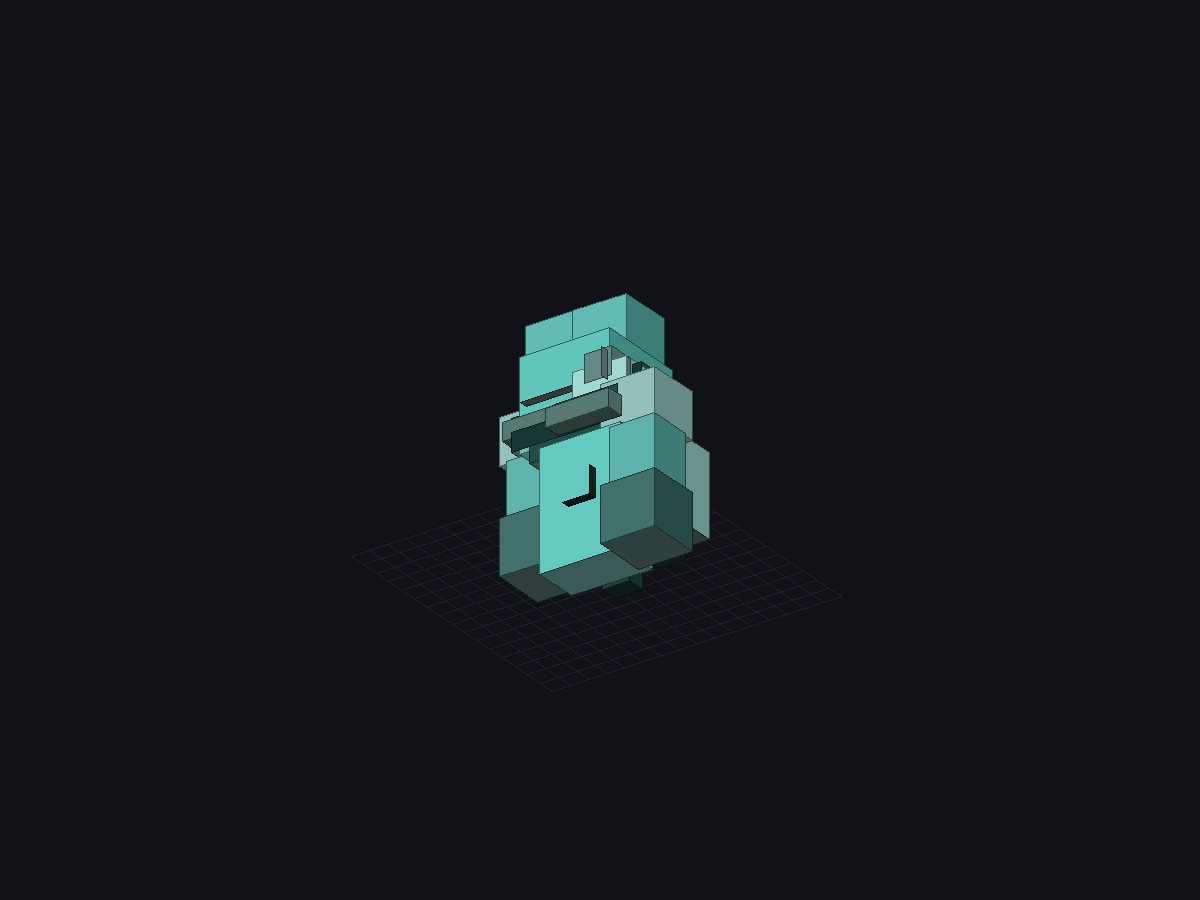
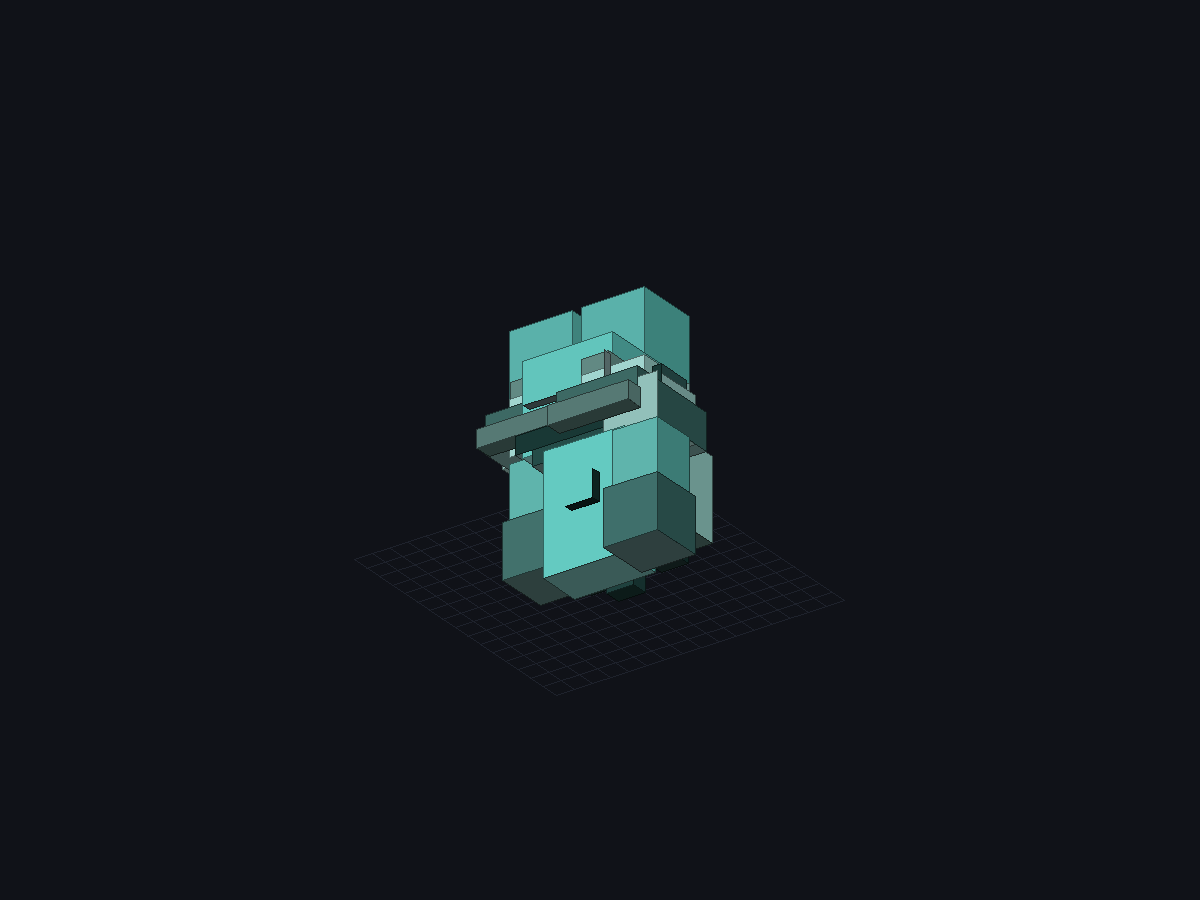
Legs v2: truly huge wide-stance servo legs (7x8x7 thighs, 9x4x11 boots) + reliable close-up framing in CI

Changed region(s): [[0.4008, 0.3111, 0.6167, 0.6844]]

diff --git a/src/main/java/com/octoarms/client/model/ArmorSpecs.java b/src/main/java/com/octoarms/client/model/ArmorSpecs.java
@@ -69,24 +69,24 @@ public final class ArmorSpecs {
             new Box("left_arm", 48, 22, 6F, 5F, 6F, -2.4F, -2.8F, -3.0F),
             new Box("left_arm", 74, 22, 5F, 7F, 5F, -1.8F, 1.6F, -2.5F),
             new Box("left_arm", 96, 22, 6F, 6F, 6F, -2.4F, 7.6F, -3.0F),
-            new Box("right_leg", 122, 22, 6F, 7F, 6F, -3.7F, -1.2F, -3.2F),
-            new Box("left_leg", 148, 22, 6F, 7F, 6F, -2.3F, -1.2F, -3.2F),
-            new Box("right_leg", 174, 22, 3F, 3F, 3F, -3.0F, 4.6F, -4.6F),
-            new Box("left_leg", 188, 22, 3F, 3F, 3F, 0.0F, 4.6F, -4.6F),
-            new Box("right_leg", 202, 22, 6F, 7F, 6F, -3.7F, 5.2F, -3.2F),
-            new Box("left_leg", 228, 22, 6F, 7F, 6F, -2.3F, 5.2F, -3.2F),
-            new Box("right_leg", 0, 37, 1F, 5F, 4F, -4.5F, 5.6F, -2.0F),
-            new Box("left_leg", 12, 37, 1F, 5F, 4F, 3.5F, 5.6F, -2.0F),
-            new Box("right_leg", 24, 37, 7F, 3F, 9F, -4.0F, 9.0F, -5.0F),
-            new Box("left_leg", 58, 37, 7F, 3F, 9F, -3.0F, 9.0F, -5.0F),
-            new Box("right_leg", 92, 37, 7F, 2F, 2F, -4.0F, 10.0F, -6.4F),
-            new Box("left_leg", 112, 37, 7F, 2F, 2F, -3.0F, 10.0F, -6.4F),
-            new Box("right_leg", 132, 37, 2F, 2F, 2F, -3.4F, 10.0F, 3.6F),
-            new Box("left_leg", 142, 37, 2F, 2F, 2F, -0.5F, 10.0F, 3.6F),
-            new Box("head", 152, 37, 1F, 4F, 1F, -6.4F, -12.0F, 1.0F),
-            new Box("head", 158, 37, 1F, 1F, 1F, -6.4F, -12.6F, 1.0F),
-            new Box("body", 164, 37, 2F, 2F, 3F, -5.6F, 3.0F, -3.6F),
-            new Box("body", 176, 37, 2F, 2F, 3F, 3.6F, 3.0F, -3.6F)
+            new Box("right_leg", 122, 22, 7F, 8F, 7F, -5.6F, -1.5F, -3.5F),
+            new Box("left_leg", 152, 22, 7F, 8F, 7F, -1.4F, -1.5F, -3.5F),
+            new Box("right_leg", 182, 22, 3F, 3F, 3F, -4.5F, 4.8F, -5.0F),
+            new Box("left_leg", 196, 22, 3F, 3F, 3F, -0.4F, 4.8F, -5.0F),
+            new Box("right_leg", 210, 22, 7F, 6F, 7F, -5.6F, 5.5F, -3.5F),
+            new Box("left_leg", 0, 39, 7F, 6F, 7F, -1.4F, 5.5F, -3.5F),
+            new Box("right_leg", 30, 39, 1F, 4F, 4F, -6.4F, 6.0F, -2.0F),
+            new Box("left_leg", 42, 39, 1F, 4F, 4F, 5.4F, 6.0F, -2.0F),
+            new Box("right_leg", 54, 39, 9F, 4F, 11F, -6.5F, 8.0F, -6.0F),
+            new Box("left_leg", 96, 39, 9F, 4F, 11F, -2.5F, 8.0F, -6.0F),
+            new Box("right_leg", 138, 39, 9F, 2F, 2F, -6.5F, 10.0F, -7.4F),
+            new Box("left_leg", 162, 39, 9F, 2F, 2F, -2.5F, 10.0F, -7.4F),
+            new Box("right_leg", 186, 39, 2F, 2F, 2F, -5.0F, 10.0F, 4.6F),
+            new Box("left_leg", 196, 39, 2F, 2F, 2F, 3.0F, 10.0F, 4.6F),
+            new Box("head", 206, 39, 1F, 4F, 1F, -6.4F, -12.0F, 1.0F),
+            new Box("head", 212, 39, 1F, 1F, 1F, -6.4F, -12.6F, 1.0F),
+            new Box("body", 218, 39, 2F, 2F, 3F, -5.6F, 3.0F, -3.6F),
+            new Box("body", 230, 39, 2F, 2F, 3F, 3.6F, 3.0F, -3.6F)
         });
         SUITS.put("iron_mech", new Box[]{
             new Box("hat", 0, 0, 0F, 0F, 0F, 0.0F, 0.0F, 0.0F),
@@ -104,25 +104,25 @@ public final class ArmorSpecs {
             new Box("left_arm", 48, 22, 6F, 5F, 6F, -2.4F, -2.8F, -3.0F),
             new Box("left_arm", 74, 22, 5F, 7F, 5F, -1.8F, 1.6F, -2.5F),
             new Box("left_arm", 96, 22, 6F, 6F, 6F, -2.4F, 7.6F, -3.0F),
-            new Box("right_leg", 122, 22, 6F, 7F, 6F, -3.7F, -1.2F, -3.2F),
-            new Box("left_leg", 148, 22, 6F, 7F, 6F, -2.3F, -1.2F, -3.2F),
-            new Box("right_leg", 174, 22, 3F, 3F, 3F, -3.0F, 4.6F, -4.6F),
-            new Box("left_leg", 188, 22, 3F, 3F, 3F, 0.0F, 4.6F, -4.6F),
-            new Box("right_leg", 202, 22, 6F, 7F, 6F, -3.7F, 5.2F, -3.2F),
-            new Box("left_leg", 228, 22, 6F, 7F, 6F, -2.3F, 5.2F, -3.2F),
-            new Box("right_leg", 0, 37, 1F, 5F, 4F, -4.5F, 5.6F, -2.0F),
-            new Box("left_leg", 12, 37, 1F, 5F, 4F, 3.5F, 5.6F, -2.0F),
-            new Box("right_leg", 24, 37, 7F, 3F, 9F, -4.0F, 9.0F, -5.0F),
-            new Box("left_leg", 58, 37, 7F, 3F, 9F, -3.0F, 9.0F, -5.0F),
-            new Box("right_leg", 92, 37, 7F, 2F, 2F, -4.0F, 10.0F, -6.4F),
-            new Box("left_leg", 112, 37, 7F, 2F, 2F, -3.0F, 10.0F, -6.4F),
-            new Box("right_leg", 132, 37, 2F, 2F, 2F, -3.4F, 10.0F, 3.6F),
-            new Box("left_leg", 142, 37, 2F, 2F, 2F, -0.5F, 10.0F, 3.6F),
-            new Box("right_arm", 152, 37, 7F, 3F, 7F, -4.2F, -3.4F, -3.5F),
-            new Box("left_arm", 182, 37, 7F, 3F, 7F, -2.8F, -3.4F, -3.5F),
-            new Box("body", 212, 37, 9F, 2F, 2F, -4.5F, 6.4F, -3.4F),
-            new Box("body", 236, 37, 4F, 6F, 3F, -6.6F, 1.0F, 2.8F),
-            new Box("body", 0, 51, 4F, 6F, 3F, 2.6F, 1.0F, 2.8F)
+            new Box("right_leg", 122, 22, 7F, 8F, 7F, -5.6F, -1.5F, -3.5F),
+            new Box("left_leg", 152, 22, 7F, 8F, 7F, -1.4F, -1.5F, -3.5F),
+            new Box("right_leg", 182, 22, 3F, 3F, 3F, -4.5F, 4.8F, -5.0F),
+            new Box("left_leg", 196, 22, 3F, 3F, 3F, -0.4F, 4.8F, -5.0F),
+            new Box("right_leg", 210, 22, 7F, 6F, 7F, -5.6F, 5.5F, -3.5F),
+            new Box("left_leg", 0, 39, 7F, 6F, 7F, -1.4F, 5.5F, -3.5F),
+            new Box("right_leg", 30, 39, 1F, 4F, 4F, -6.4F, 6.0F, -2.0F),
+            new Box("left_leg", 42, 39, 1F, 4F, 4F, 5.4F, 6.0F, -2.0F),
+            new Box("right_leg", 54, 39, 9F, 4F, 11F, -6.5F, 8.0F, -6.0F),
+            new Box("left_leg", 96, 39, 9F, 4F, 11F, -2.5F, 8.0F, -6.0F),
+            new Box("right_leg", 138, 39, 9F, 2F, 2F, -6.5F, 10.0F, -7.4F),
+            new Box("left_leg", 162, 39, 9F, 2F, 2F, -2.5F, 10.0F, -7.4F),
+            new Box("right_leg", 186, 39, 2F, 2F, 2F, -5.0F, 10.0F, 4.6F),
+            new Box("left_leg", 196, 39, 2F, 2F, 2F, 3.0F, 10.0F, 4.6F),
+            new Box("right_arm", 206, 39, 7F, 3F, 7F, -4.2F, -3.4F, -3.5F),
+            new Box("left_arm", 0, 56, 7F, 3F, 7F, -2.8F, -3.4F, -3.5F),
+            new Box("body", 30, 56, 9F, 2F, 2F, -4.5F, 6.4F, -3.4F),
+            new Box("body", 54, 56, 4F, 6F, 3F, -6.6F, 1.0F, 2.8F),
+            new Box("body", 70, 56, 4F, 6F, 3F, 2.6F, 1.0F, 2.8F)
         });
         SUITS.put("gold_mech", new Box[]{
             new Box("hat", 0, 0, 0F, 0F, 0F, 0.0F, 0.0F, 0.0F),
@@ -140,25 +140,25 @@ public final class ArmorSpecs {
             new Box("left_arm", 48, 22, 6F, 5F, 6F, -2.4F, -2.8F, -3.0F),
             new Box("left_arm", 74, 22, 5F, 7F, 5F, -1.8F, 1.6F, -2.5F),
             new Box("left_arm", 96, 22, 6F, 6F, 6F, -2.4F, 7.6F, -3.0F),
-            new Box("right_leg", 122, 22, 6F, 7F, 6F, -3.7F, -1.2F, -3.2F),
-            new Box("left_leg", 148, 22, 6F, 7F, 6F, -2.3F, -1.2F, -3.2F),
-            new Box("right_leg", 174, 22, 3F, 3F, 3F, -3.0F, 4.6F, -4.6F),
-            new Box("left_leg", 188, 22, 3F, 3F, 3F, 0.0F, 4.6F, -4.6F),
-            new Box("right_leg", 202, 22, 6F, 7F, 6F, -3.7F, 5.2F, -3.2F),
-            new Box("left_leg", 228, 22, 6F, 7F, 6F, -2.3F, 5.2F, -3.2F),
-            new Box("right_leg", 0, 37, 1F, 5F, 4F, -4.5F, 5.6F, -2.0F),
-            new Box("left_leg", 12, 37, 1F, 5F, 4F, 3.5F, 5.6F, -2.0F),
-            new Box("right_leg", 24, 37, 7F, 3F, 9F, -4.0F, 9.0F, -5.0F),
-            new Box("left_leg", 58, 37, 7F, 3F, 9F, -3.0F, 9.0F, -5.0F),
-            new Box("right_leg", 92, 37, 7F, 2F, 2F, -4.0F, 10.0F, -6.4F),
-            new Box("left_leg", 112, 37, 7F, 2F, 2F, -3.0F, 10.0F, -6.4F),
-            new Box("right_leg", 132, 37, 2F, 2F, 2F, -3.4F, 10.0F, 3.6F),
-            new Box("left_leg", 142, 37, 2F, 2F, 2F, -0.5F, 10.0F, 3.6F),
-            new Box("head", 152, 37, 2F, 4F, 8F, -1.0F, -12.4F, -3.0F),
-            new Box("head", 174, 37, 2F, 1F, 8F, -1.0F, -13.0F, -3.0F),
-            new Box("body", 196, 37, 11F, 4F, 6F, -5.5F, 9.0F, -3.0F),
-            new Box("right_arm", 232, 37, 2F, 6F, 2F, -4.4F, 2.0F, -3.4F),
-            new Box("left_arm", 242, 37, 2F, 6F, 2F, 2.4F, 2.0F, -3.4F)
+            new Box("right_leg", 122, 22, 7F, 8F, 7F, -5.6F, -1.5F, -3.5F),
+            new Box("left_leg", 152, 22, 7F, 8F, 7F, -1.4F, -1.5F, -3.5F),
+            new Box("right_leg", 182, 22, 3F, 3F, 3F, -4.5F, 4.8F, -5.0F),
+            new Box("left_leg", 196, 22, 3F, 3F, 3F, -0.4F, 4.8F, -5.0F),
+            new Box("right_leg", 210, 22, 7F, 6F, 7F, -5.6F, 5.5F, -3.5F),
+            new Box("left_leg", 0, 39, 7F, 6F, 7F, -1.4F, 5.5F, -3.5F),
+            new Box("right_leg", 30, 39, 1F, 4F, 4F, -6.4F, 6.0F, -2.0F),
+            new Box("left_leg", 42, 39, 1F, 4F, 4F, 5.4F, 6.0F, -2.0F),
+            new Box("right_leg", 54, 39, 9F, 4F, 11F, -6.5F, 8.0F, -6.0F),
+            new Box("left_leg", 96, 39, 9F, 4F, 11F, -2.5F, 8.0F, -6.0F),
+            new Box("right_leg", 138, 39, 9F, 2F, 2F, -6.5F, 10.0F, -7.4F),
+            new Box("left_leg", 162, 39, 9F, 2F, 2F, -2.5F, 10.0F, -7.4F),
+            new Box("right_leg", 186, 39, 2F, 2F, 2F, -5.0F, 10.0F, 4.6F),
+            new Box("left_leg", 196, 39, 2F, 2F, 2F, 3.0F, 10.0F, 4.6F),
+            new Box("head", 206, 39, 2F, 4F, 8F, -1.0F, -12.4F, -3.0F),
+            new Box("head", 228, 39, 2F, 1F, 8F, -1.0F, -13.0F, -3.0F),
+            new Box("body", 0, 56, 11F, 4F, 6F, -5.5F, 9.0F, -3.0F),
+            new Box("right_arm", 36, 56, 2F, 6F, 2F, -4.4F, 2.0F, -3.4F),
+            new Box("left_arm", 46, 56, 2F, 6F, 2F, 2.4F, 2.0F, -3.4F)
         });
         SUITS.put("diamond_mech", new Box[]{
             new Box("hat", 0, 0, 0F, 0F, 0F, 0.0F, 0.0F, 0.0F),
@@ -176,25 +176,25 @@ public final class ArmorSpecs {
             new Box("left_arm", 48, 22, 6F, 5F, 6F, -2.4F, -2.8F, -3.0F),
             new Box("left_arm", 74, 22, 5F, 7F, 5F, -1.8F, 1.6F, -2.5F),
             new Box("left_arm", 96, 22, 6F, 6F, 6F, -2.4F, 7.6F, -3.0F),
-            new Box("right_leg", 122, 22, 6F, 7F, 6F, -3.7F, -1.2F, -3.2F),
-            new Box("left_leg", 148, 22, 6F, 7F, 6F, -2.3F, -1.2F, -3.2F),
-            new Box("right_leg", 174, 22, 3F, 3F, 3F, -3.0F, 4.6F, -4.6F),
-            new Box("left_leg", 188, 22, 3F, 3F, 3F, 0.0F, 4.6F, -4.6F),
-            new Box("right_leg", 202, 22, 6F, 7F, 6F, -3.7F, 5.2F, -3.2F),
-            new Box("left_leg", 228, 22, 6F, 7F, 6F, -2.3F, 5.2F, -3.2F),
-            new Box("right_leg", 0, 37, 1F, 5F, 4F, -4.5F, 5.6F, -2.0F),
-            new Box("left_leg", 12, 37, 1F, 5F, 4F, 3.5F, 5.6F, -2.0F),
-            new Box("right_leg", 24, 37, 7F, 3F, 9F, -4.0F, 9.0F, -5.0F),
-            new Box("left_leg", 58, 37, 7F, 3F, 9F, -3.0F, 9.0F, -5.0F),
-            new Box("right_leg", 92, 37, 7F, 2F, 2F, -4.0F, 10.0F, -6.4F),
-            new Box("left_leg", 112, 37, 7F, 2F, 2F, -3.0F, 10.0F, -6.4F),
-            new Box("right_leg", 132, 37, 2F, 2F, 2F, -3.4F, 10.0F, 3.6F),
-            new Box("left_leg", 142, 37, 2F, 2F, 2F, -0.5F, 10.0F, 3.6F),
-            new Box("body", 152, 37, 2F, 9F, 5F, -7.2F, -1.0F, 2.6F),
-            new Box("body", 168, 37, 2F, 9F, 5F, 5.2F, -1.0F, 2.6F),
-            new Box("body", 184, 37, 3F, 3F, 3F, -5.4F, 7.0F, 3.4F),
-            new Box("body", 198, 37, 3F, 3F, 3F, 2.4F, 7.0F, 3.4F),
-            new Box("head", 212, 37, 10F, 1F, 2F, -5.0F, -9.6F, -1.0F)
+            new Box("right_leg", 122, 22, 7F, 8F, 7F, -5.6F, -1.5F, -3.5F),
+            new Box("left_leg", 152, 22, 7F, 8F, 7F, -1.4F, -1.5F, -3.5F),
+            new Box("right_leg", 182, 22, 3F, 3F, 3F, -4.5F, 4.8F, -5.0F),
+            new Box("left_leg", 196, 22, 3F, 3F, 3F, -0.4F, 4.8F, -5.0F),
+            new Box("right_leg", 210, 22, 7F, 6F, 7F, -5.6F, 5.5F, -3.5F),
+            new Box("left_leg", 0, 39, 7F, 6F, 7F, -1.4F, 5.5F, -3.5F),
+            new Box("right_leg", 30, 39, 1F, 4F, 4F, -6.4F, 6.0F, -2.0F),
+            new Box("left_leg", 42, 39, 1F, 4F, 4F, 5.4F, 6.0F, -2.0F),
+            new Box("right_leg", 54, 39, 9F, 4F, 11F, -6.5F, 8.0F, -6.0F),
+            new Box("left_leg", 96, 39, 9F, 4F, 11F, -2.5F, 8.0F, -6.0F),
+            new Box("right_leg", 138, 39, 9F, 2F, 2F, -6.5F, 10.0F, -7.4F),
+            new Box("left_leg", 162, 39, 9F, 2F, 2F, -2.5F, 10.0F, -7.4F),
+            new Box("right_leg", 186, 39, 2F, 2F, 2F, -5.0F, 10.0F, 4.6F),
+            new Box("left_leg", 196, 39, 2F, 2F, 2F, 3.0F, 10.0F, 4.6F),
+            new Box("body", 206, 39, 2F, 9F, 5F, -7.2F, -1.0F, 2.6F),
+            new Box("body", 222, 39, 2F, 9F, 5F, 5.2F, -1.0F, 2.6F),
+            new Box("body", 238, 39, 3F, 3F, 3F, -5.4F, 7.0F, 3.4F),
+            new Box("body", 0, 56, 3F, 3F, 3F, 2.4F, 7.0F, 3.4F),
+            new Box("head", 14, 56, 10F, 1F, 2F, -5.0F, -9.6F, -1.0F)
         });
         SUITS.put("netherite_mech", new Box[]{
             new Box("hat", 0, 0, 0F, 0F, 0F, 0.0F, 0.0F, 0.0F),
@@ -212,32 +212,32 @@ public final class ArmorSpecs {
             new Box("left_arm", 48, 22, 6F, 5F, 6F, -2.4F, -2.8F, -3.0F),
             new Box("left_arm", 74, 22, 5F, 7F, 5F, -1.8F, 1.6F, -2.5F),
             new Box("left_arm", 96, 22, 6F, 6F, 6F, -2.4F, 7.6F, -3.0F),
-            new Box("right_leg", 122, 22, 6F, 7F, 6F, -3.7F, -1.2F, -3.2F),
-            new Box("left_leg", 148, 22, 6F, 7F, 6F, -2.3F, -1.2F, -3.2F),
-            new Box("right_leg", 174, 22, 3F, 3F, 3F, -3.0F, 4.6F, -4.6F),
-            new Box("left_leg", 188, 22, 3F, 3F, 3F, 0.0F, 4.6F, -4.6F),
-            new Box("right_leg", 202, 22, 6F, 7F, 6F, -3.7F, 5.2F, -3.2F),
-            new Box("left_leg", 228, 22, 6F, 7F, 6F, -2.3F, 5.2F, -3.2F),
-            new Box("right_leg", 0, 37, 1F, 5F, 4F, -4.5F, 5.6F, -2.0F),
-            new Box("left_leg", 12, 37, 1F, 5F, 4F, 3.5F, 5.6F, -2.0F),
-            new Box("right_leg", 24, 37, 7F, 3F, 9F, -4.0F, 9.0F, -5.0F),
-            new Box("left_leg", 58, 37, 7F, 3F, 9F, -3.0F, 9.0F, -5.0F),
-            new Box("right_leg", 92, 37, 7F, 2F, 2F, -4.0F, 10.0F, -6.4F),
-            new Box("left_leg", 112, 37, 7F, 2F, 2F, -3.0F, 10.0F, -6.4F),
-            new Box("right_leg", 132, 37, 2F, 2F, 2F, -3.4F, 10.0F, 3.6F),
-            new Box("left_leg", 142, 37, 2F, 2F, 2F, -0.5F, 10.0F, 3.6F),
-            new Box("head", 152, 37, 2F, 4F, 2F, -5.6F, -11.4F, -3.0F),
-            new Box("head", 162, 37, 2F, 4F, 2F, 3.6F, -11.4F, -3.0F),
-            new Box("right_arm", 172, 37, 8F, 4F, 8F, -4.8F, -3.8F, -4.0F),
-            new Box("left_arm", 206, 37, 8F, 4F, 8F, -3.2F, -3.8F, -4.0F),
-            new Box("body", 240, 37, 4F, 8F, 4F, -6.8F, 0.0F, 3.0F),
-            new Box("body", 0, 51, 4F, 8F, 4F, 2.8F, 0.0F, 3.0F),
-            new Box("body", 18, 51, 3F, 2F, 3F, -6.2F, -2.4F, 3.0F),
-            new Box("body", 32, 51, 3F, 2F, 3F, 3.2F, -2.4F, 3.0F),
-            new Box("right_leg", 46, 51, 6F, 4F, 6F, -3.7F, 4.4F, -3.4F),
-            new Box("left_leg", 72, 51, 6F, 4F, 6F, -2.3F, 4.4F, -3.4F),
-            new Box("right_leg", 98, 51, 2F, 6F, 2F, -5.4F, 2.0F, -1.0F),
-            new Box("left_leg", 108, 51, 2F, 6F, 2F, 3.4F, 2.0F, -1.0F)
+            new Box("right_leg", 122, 22, 7F, 8F, 7F, -5.6F, -1.5F, -3.5F),
+            new Box("left_leg", 152, 22, 7F, 8F, 7F, -1.4F, -1.5F, -3.5F),
+            new Box("right_leg", 182, 22, 3F, 3F, 3F, -4.5F, 4.8F, -5.0F),
+            new Box("left_leg", 196, 22, 3F, 3F, 3F, -0.4F, 4.8F, -5.0F),
+            new Box("right_leg", 210, 22, 7F, 6F, 7F, -5.6F, 5.5F, -3.5F),
+            new Box("left_leg", 0, 39, 7F, 6F, 7F, -1.4F, 5.5F, -3.5F),
+            new Box("right_leg", 30, 39, 1F, 4F, 4F, -6.4F, 6.0F, -2.0F),
+            new Box("left_leg", 42, 39, 1F, 4F, 4F, 5.4F, 6.0F, -2.0F),
+            new Box("right_leg", 54, 39, 9F, 4F, 11F, -6.5F, 8.0F, -6.0F),
+            new Box("left_leg", 96, 39, 9F, 4F, 11F, -2.5F, 8.0F, -6.0F),
+            new Box("right_leg", 138, 39, 9F, 2F, 2F, -6.5F, 10.0F, -7.4F),
+            new Box("left_leg", 162, 39, 9F, 2F, 2F, -2.5F, 10.0F, -7.4F),
+            new Box("right_leg", 186, 39, 2F, 2F, 2F, -5.0F, 10.0F, 4.6F),
+            new Box("left_leg", 196, 39, 2F, 2F, 2F, 3.0F, 10.0F, 4.6F),
+            new Box("head", 206, 39, 2F, 4F, 2F, -5.6F, -11.4F, -3.0F),
+            new Box("head", 216, 39, 2F, 4F, 2F, 3.6F, -11.4F, -3.0F),
+            new Box("right_arm", 0, 56, 8F, 4F, 8F, -4.8F, -3.8F, -4.0F),
+            new Box("left_arm", 34, 56, 8F, 4F, 8F, -3.2F, -3.8F, -4.0F),
+            new Box("body", 68, 56, 4F, 8F, 4F, -6.8F, 0.0F, 3.0F),
+            new Box("body", 86, 56, 4F, 8F, 4F, 2.8F, 0.0F, 3.0F),
+            new Box("body", 104, 56, 3F, 2F, 3F, -6.2F, -2.4F, 3.0F),
+            new Box("body", 118, 56, 3F, 2F, 3F, 3.2F, -2.4F, 3.0F),
+            new Box("right_leg", 132, 56, 6F, 4F, 6F, -5.4F, 4.4F, -3.4F),
+            new Box("left_leg", 158, 56, 6F, 4F, 6F, -0.6F, 4.4F, -3.4F),
+            new Box("right_leg", 184, 56, 2F, 6F, 2F, -7.2F, 2.0F, -1.0F),
+            new Box("left_leg", 194, 56, 2F, 6F, 2F, 5.2F, 2.0F, -1.0F)
         });
         SUITS.put("spider_mech", new Box[]{
             new Box("hat", 0, 0, 0F, 0F, 0F, 0.0F, 0.0F, 0.0F),
@@ -255,39 +255,39 @@ public final class ArmorSpecs {
             new Box("left_arm", 48, 22, 6F, 5F, 6F, -2.4F, -2.8F, -3.0F),
             new Box("left_arm", 74, 22, 5F, 7F, 5F, -1.8F, 1.6F, -2.5F),
             new Box("left_arm", 96, 22, 6F, 6F, 6F, -2.4F, 7.6F, -3.0F),
-            new Box("right_leg", 122, 22, 6F, 7F, 6F, -3.7F, -1.2F, -3.2F),
-            new Box("left_leg", 148, 22, 6F, 7F, 6F, -2.3F, -1.2F, -3.2F),
-            new Box("right_leg", 174, 22, 3F, 3F, 3F, -3.0F, 4.6F, -4.6F),
-            new Box("left_leg", 188, 22, 3F, 3F, 3F, 0.0F, 4.6F, -4.6F),
-            new Box("right_leg", 202, 22, 6F, 7F, 6F, -3.7F, 5.2F, -3.2F),
-            new Box("left_leg", 228, 22, 6F, 7F, 6F, -2.3F, 5.2F, -3.2F),
-            new Box("right_leg", 0, 37, 1F, 5F, 4F, -4.5F, 5.6F, -2.0F),
-            new Box("left_leg", 12, 37, 1F, 5F, 4F, 3.5F, 5.6F, -2.0F),
-            new Box("right_leg", 24, 37, 7F, 3F, 9F, -4.0F, 9.0F, -5.0F),
-            new Box("left_leg", 58, 37, 7F, 3F, 9F, -3.0F, 9.0F, -5.0F),
-            new Box("right_leg", 92, 37, 7F, 2F, 2F, -4.0F, 10.0F, -6.4F),
-            new Box("left_leg", 112, 37, 7F, 2F, 2F, -3.0F, 10.0F, -6.4F),
-            new Box("right_leg", 132, 37, 2F, 2F, 2F, -3.4F, 10.0F, 3.6F),
-            new Box("left_leg", 142, 37, 2F, 2F, 2F, -0.5F, 10.0F, 3.6F),
-            new Box("head", 152, 37, 9F, 3F, 3F, -4.5F, -2.6F, -5.6F),
-            new Box("head", 178, 37, 2F, 4F, 2F, -3.6F, -1.0F, -6.0F),
-            new Box("head", 188, 37, 2F, 4F, 2F, 1.6F, -1.0F, -6.0F),
-            new Box("head", 198, 37, 1F, 1F, 1F, -3.4F, -7.4F, -5.4F),
-            new Box("head", 204, 37, 1F, 1F, 1F, -1.4F, -7.4F, -5.4F),
-            new Box("head", 210, 37, 1F, 1F, 1F, 0.6F, -7.4F, -5.4F),
-            new Box("head", 216, 37, 1F, 1F, 1F, 2.6F, -7.4F, -5.4F),
-            new Box("body", 222, 37, 11F, 8F, 6F, -5.5F, -1.0F, 2.2F),
-            new Box("body", 0, 53, 9F, 6F, 5F, -4.5F, 0.0F, 6.0F),
-            new Box("body", 30, 53, 2F, 2F, 2F, -5.6F, 2.0F, 10.2F),
-            new Box("body", 40, 53, 2F, 2F, 2F, 3.6F, 2.0F, 10.2F),
-            new Box("body", 50, 53, 3F, 3F, 3F, -6.6F, 3.0F, 2.6F),
-            new Box("body", 64, 53, 3F, 3F, 3F, 3.6F, 3.0F, 2.6F),
-            new Box("right_arm", 78, 53, 5F, 5F, 5F, -3.4F, 8.0F, -2.8F),
-            new Box("left_arm", 100, 53, 5F, 5F, 5F, -1.6F, 8.0F, -2.8F),
-            new Box("right_leg", 122, 53, 2F, 6F, 2F, -5.4F, 1.6F, -1.0F),
-            new Box("left_leg", 132, 53, 2F, 6F, 2F, 3.4F, 1.6F, -1.0F),
-            new Box("right_leg", 142, 53, 8F, 2F, 8F, -4.4F, 8.6F, -4.4F),
-            new Box("left_leg", 176, 53, 8F, 2F, 8F, -3.6F, 8.6F, -4.4F)
+            new Box("right_leg", 122, 22, 7F, 8F, 7F, -5.6F, -1.5F, -3.5F),
+            new Box("left_leg", 152, 22, 7F, 8F, 7F, -1.4F, -1.5F, -3.5F),
+            new Box("right_leg", 182, 22, 3F, 3F, 3F, -4.5F, 4.8F, -5.0F),
+            new Box("left_leg", 196, 22, 3F, 3F, 3F, -0.4F, 4.8F, -5.0F),
+            new Box("right_leg", 210, 22, 7F, 6F, 7F, -5.6F, 5.5F, -3.5F),
+            new Box("left_leg", 0, 39, 7F, 6F, 7F, -1.4F, 5.5F, -3.5F),
+            new Box("right_leg", 30, 39, 1F, 4F, 4F, -6.4F, 6.0F, -2.0F),
+            new Box("left_leg", 42, 39, 1F, 4F, 4F, 5.4F, 6.0F, -2.0F),
+            new Box("right_leg", 54, 39, 9F, 4F, 11F, -6.5F, 8.0F, -6.0F),
+            new Box("left_leg", 96, 39, 9F, 4F, 11F, -2.5F, 8.0F, -6.0F),
+            new Box("right_leg", 138, 39, 9F, 2F, 2F, -6.5F, 10.0F, -7.4F),
+            new Box("left_leg", 162, 39, 9F, 2F, 2F, -2.5F, 10.0F, -7.4F),
+            new Box("right_leg", 186, 39, 2F, 2F, 2F, -5.0F, 10.0F, 4.6F),
+            new Box("left_leg", 196, 39, 2F, 2F, 2F, 3.0F, 10.0F, 4.6F),
+            new Box("head", 206, 39, 9F, 3F, 3F, -4.5F, -2.6F, -5.6F),
+            new Box("head", 232, 39, 2F, 4F, 2F, -3.6F, -1.0F, -6.0F),
+            new Box("head", 242, 39, 2F, 4F, 2F, 1.6F, -1.0F, -6.0F),
+            new Box("head", 252, 39, 1F, 1F, 1F, -3.4F, -7.4F, -5.4F),
+            new Box("head", 0, 56, 1F, 1F, 1F, -1.4F, -7.4F, -5.4F),
+            new Box("head", 6, 56, 1F, 1F, 1F, 0.6F, -7.4F, -5.4F),
+            new Box("head", 12, 56, 1F, 1F, 1F, 2.6F, -7.4F, -5.4F),
+            new Box("body", 18, 56, 11F, 8F, 6F, -5.5F, -1.0F, 2.2F),
+            new Box("body", 54, 56, 9F, 6F, 5F, -4.5F, 0.0F, 6.0F),
+            new Box("body", 84, 56, 2F, 2F, 2F, -5.6F, 2.0F, 10.2F),
+            new Box("body", 94, 56, 2F, 2F, 2F, 3.6F, 2.0F, 10.2F),
+            new Box("body", 104, 56, 3F, 3F, 3F, -6.6F, 3.0F, 2.6F),
+            new Box("body", 118, 56, 3F, 3F, 3F, 3.6F, 3.0F, 2.6F),
+            new Box("right_arm", 132, 56, 5F, 5F, 5F, -3.4F, 8.0F, -2.8F),
+            new Box("left_arm", 154, 56, 5F, 5F, 5F, -1.6F, 8.0F, -2.8F),
+            new Box("right_leg", 176, 56, 2F, 6F, 2F, -7.2F, 1.6F, -1.0F),
+            new Box("left_leg", 186, 56, 2F, 6F, 2F, 5.2F, 1.6F, -1.0F),
+            new Box("right_leg", 196, 56, 8F, 2F, 8F, -6.4F, 7.6F, -4.4F),
+            new Box("left_leg", 0, 72, 8F, 2F, 8F, -1.6F, 7.6F, -4.4F)
         });
     }
 

diff --git a/tools/gen_armor.py b/tools/gen_armor.py
@@ -56,20 +56,20 @@ def base_boxes(defl=0.0):
         box("left_arm", (5, 7, 5), (-1.8, 1.6, -2.5), "plate"),
         box("left_arm", (6, 6, 6), (-2.4, 7.6, -3.0), "dark"),
         # legs
-        box("right_leg", (6, 7, 6), (-3.7, -1.2, -3.2), "plate"),      # thigh
-        box("left_leg", (6, 7, 6), (-2.3, -1.2, -3.2), "plate"),
-        box("right_leg", (3, 3, 3), (-3.0, 4.6, -4.6), "accent"),      # knee piston
-        box("left_leg", (3, 3, 3), (0.0, 4.6, -4.6), "accent"),
-        box("right_leg", (6, 7, 6), (-3.7, 5.2, -3.2), "accent"),      # shin guard
-        box("left_leg", (6, 7, 6), (-2.3, 5.2, -3.2), "accent"),
-        box("right_leg", (1, 5, 4), (-4.5, 5.6, -2.0), "dark"),        # shin vent out
-        box("left_leg", (1, 5, 4), (3.5, 5.6, -2.0), "dark"),
-        box("right_leg", (7, 3, 9), (-4.0, 9.0, -5.0), "dark"),        # boot
-        box("left_leg", (7, 3, 9), (-3.0, 9.0, -5.0), "dark"),
-        box("right_leg", (7, 2, 2), (-4.0, 10.0, -6.4), "accent"),     # toe plate
-        box("left_leg", (7, 2, 2), (-3.0, 10.0, -6.4), "accent"),
-        box("right_leg", (2, 2, 2), (-3.4, 10.0, 3.6), "dark"),        # heel actuator
-        box("left_leg", (2, 2, 2), (-0.5, 10.0, 3.6), "dark"),
+        box("right_leg", (7, 8, 7), (-5.6, -1.5, -3.5), "plate"),      # huge thigh, wide stance
+        box("left_leg", (7, 8, 7), (-1.4, -1.5, -3.5), "plate"),
+        box("right_leg", (3, 3, 3), (-4.5, 4.8, -5.0), "accent"),      # knee piston
+        box("left_leg", (3, 3, 3), (-0.4, 4.8, -5.0), "accent"),
+        box("right_leg", (7, 6, 7), (-5.6, 5.5, -3.5), "accent"),      # shin guard
+        box("left_leg", (7, 6, 7), (-1.4, 5.5, -3.5), "accent"),
+        box("right_leg", (1, 4, 4), (-6.4, 6.0, -2.0), "dark"),        # shin vent out
+        box("left_leg", (1, 4, 4), (5.4, 6.0, -2.0), "dark"),
+        box("right_leg", (9, 4, 11), (-6.5, 8.0, -6.0), "dark"),       # massive boot
+        box("left_leg", (9, 4, 11), (-2.5, 8.0, -6.0), "dark"),
+        box("right_leg", (9, 2, 2), (-6.5, 10.0, -7.4), "accent"),     # toe plate
+        box("left_leg", (9, 2, 2), (-2.5, 10.0, -7.4), "accent"),
+        box("right_leg", (2, 2, 2), (-5.0, 10.0, 4.6), "dark"),        # heel actuator
+        box("left_leg", (2, 2, 2), (3.0, 10.0, 4.6), "dark"),
     ]
 
 
@@ -110,10 +110,10 @@ TIER_EXTRA = {
         box("body", (4, 8, 4), (2.8, 0.0, 3.0), "dark"),
         box("body", (3, 2, 3), (-6.2, -2.4, 3.0), "glow"),
         box("body", (3, 2, 3), (3.2, -2.4, 3.0), "glow"),
-        box("right_leg", (6, 4, 6), (-3.7, 4.4, -3.4), "plate"),       # knee cap
-        box("left_leg", (6, 4, 6), (-2.3, 4.4, -3.4), "plate"),
-        box("right_leg", (2, 6, 2), (-5.4, 2.0, -1.0), "dark"),        # thigh hydraulics
-        box("left_leg", (2, 6, 2), (3.4, 2.0, -1.0), "dark"),
+        box("right_leg", (6, 4, 6), (-5.4, 4.4, -3.4), "plate"),       # knee cap
+        box("left_leg", (6, 4, 6), (-0.6, 4.4, -3.4), "plate"),
+        box("right_leg", (2, 6, 2), (-7.2, 2.0, -1.0), "dark"),        # thigh hydraulics
+        box("left_leg", (2, 6, 2), (5.2, 2.0, -1.0), "dark"),
     ],
     "spider_mech": [
         box("head", (9, 3, 3), (-4.5, -2.6, -5.6), "dark"),            # fang housing
@@ -131,10 +131,10 @@ TIER_EXTRA = {
         box("body", (3, 3, 3), (3.6, 3.0, 2.6), "dark"),               # octo-arm mount R
         box("right_arm", (5, 5, 5), (-3.4, 8.0, -2.8), "accent"),      # claw gauntlet
         box("left_arm", (5, 5, 5), (-1.6, 8.0, -2.8), "accent"),
-        box("right_leg", (2, 6, 2), (-5.4, 1.6, -1.0), "dark"),        # leg hydraulics
-        box("left_leg", (2, 6, 2), (3.4, 1.6, -1.0), "dark"),
-        box("right_leg", (8, 2, 8), (-4.4, 8.6, -4.4), "accent"),      # wide stance plate
-        box("left_leg", (8, 2, 8), (-3.6, 8.6, -4.4), "accent"),
+        box("right_leg", (2, 6, 2), (-7.2, 1.6, -1.0), "dark"),        # leg hydraulics
+        box("left_leg", (2, 6, 2), (5.2, 1.6, -1.0), "dark"),
+        box("right_leg", (8, 2, 8), (-6.4, 7.6, -4.4), "accent"),      # wide stance plate
+        box("left_leg", (8, 2, 8), (-1.6, 7.6, -4.4), "accent"),
     ],
 }
 
